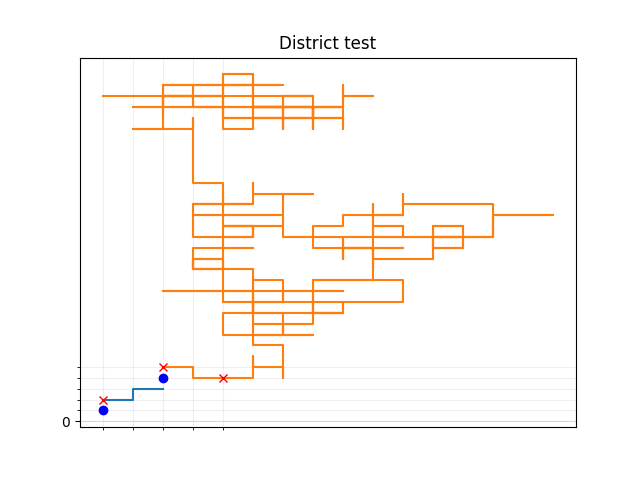
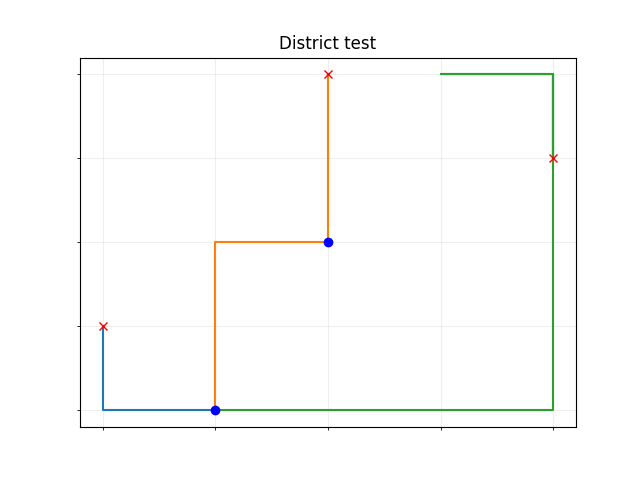
added algorithm

diff --git a/code/algorithms/random_cables.py b/code/algorithms/random_cables.py
@@ -6,7 +6,7 @@ import copy
 def random_cables(grid):
 
     for house in grid.houses:
-        
+
         while True:
             battery = random.choice(grid.batteries)
             if battery.remaining >= house.max_output:
@@ -16,13 +16,17 @@ def random_cables(grid):
         house.route = Route(battery, house.position_x, house.position_y)
 
         while not battery.position_x == house.route.list_x[-1] and not battery.position_y == house.route.list_y[-1]:
+            
+
             direction = random.choice(['x', 'y'])
 
             if direction == 'x':
                 direction_x = random.choice([-1, 1])
                 xtest = house.route.list_x[-1] + direction_x
-
-                if xtest >= 0 or xtest <= grid.grid_width:
+                
+                if xtest >= 0 and xtest <= grid.grid_width:
+                    
+                    # print(house.route.list_x[-1])
                     house.route.list_x.append(xtest)
                     ytest = house.route.list_y[-1]
                     house.route.list_y.append(ytest)
@@ -31,15 +35,18 @@ def random_cables(grid):
                 direction_y = random.choice([-1, 1])
                 ytest = house.route.list_y[-1] + direction_y
 
-                if ytest>= 0 or ytest <= grid.grid_height:
+                if ytest>= 0 and ytest <= grid.grid_height:
                     house.route.list_y.append(ytest)
                     xtest = house.route.list_x[-1]
                     house.route.list_x.append(xtest)
 
-        print()
-        print(house.route.list_x)
-        print(house.route.list_y)
-        print()
+        house.route.list_x.append(battery.position_x)
+        house.route.list_y.append(battery.position_y)          
+
+        # print()
+        # print(house.route.list_x)
+        # print(house.route.list_y)
+        # print()
 
 
 
